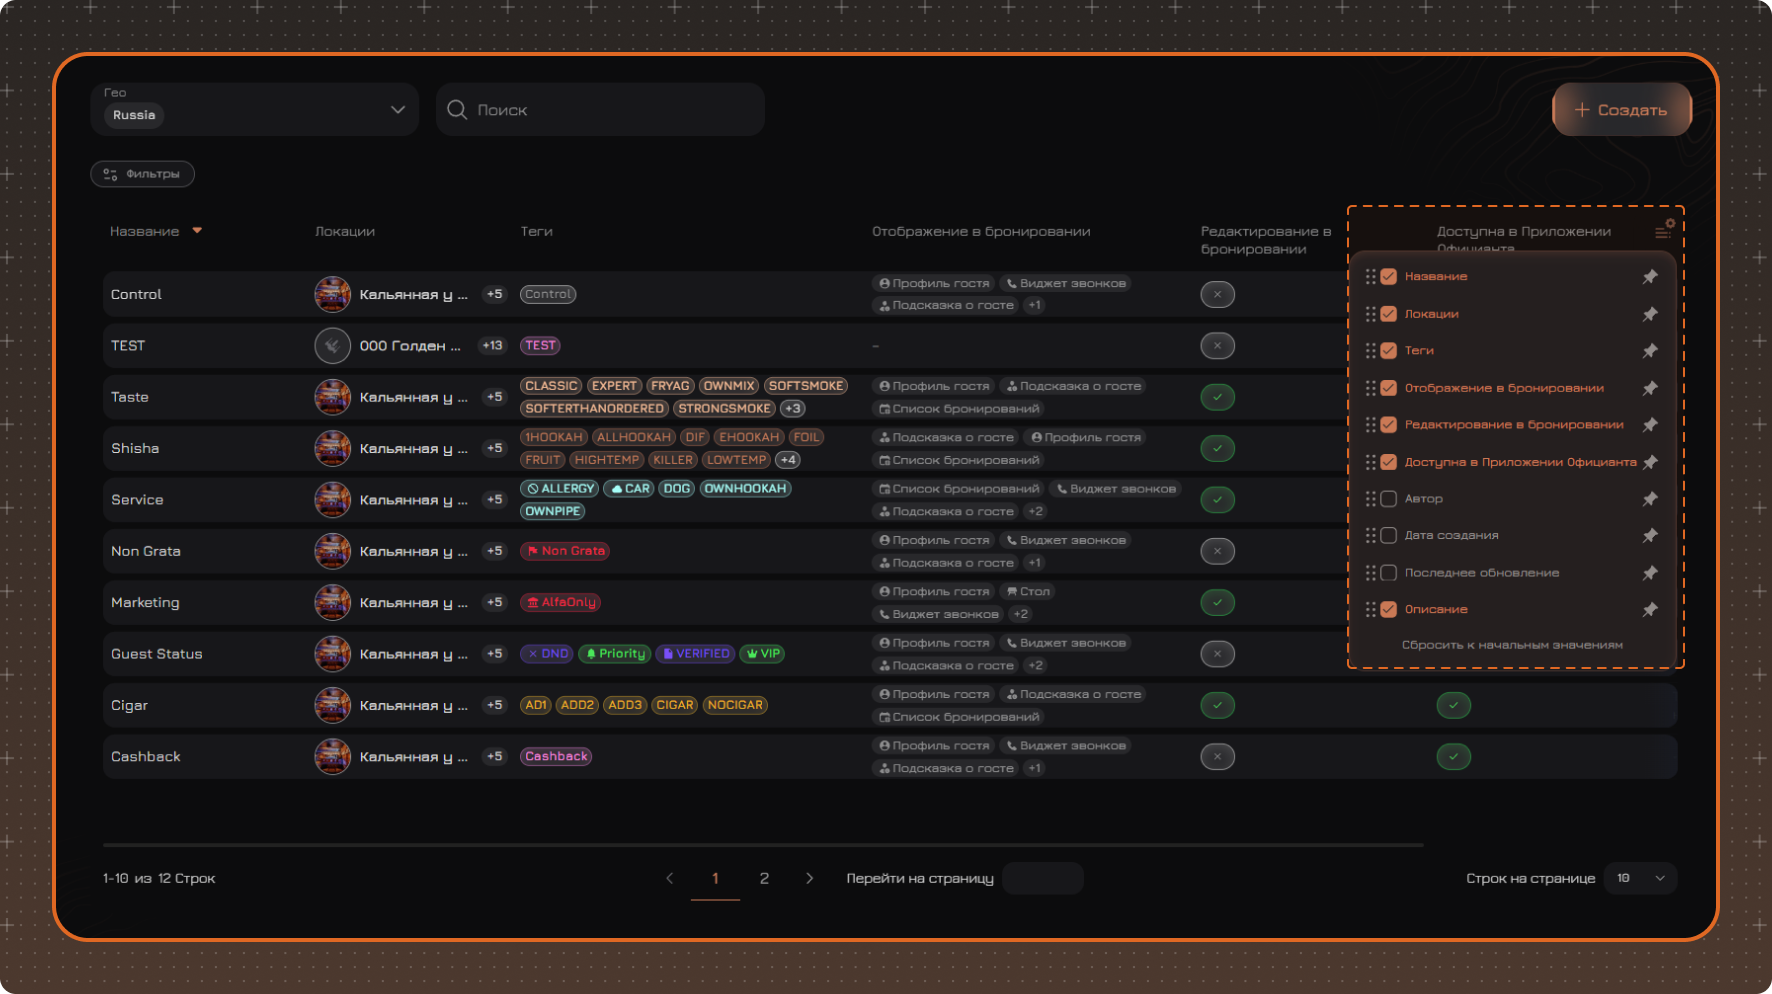
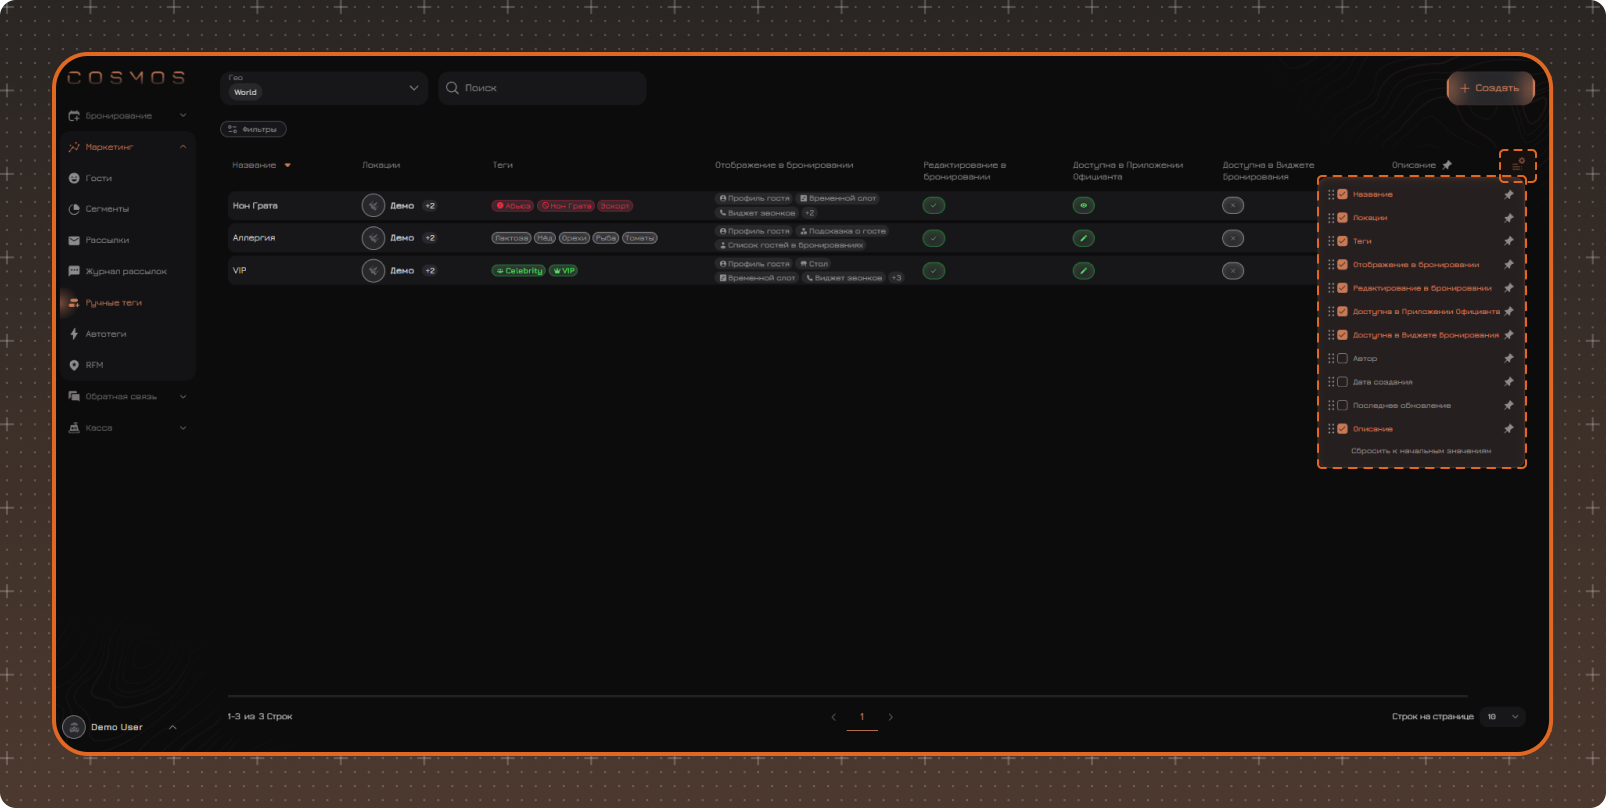
manual tags edit 17avg

diff --git a/content/ru/marketing/manual-tags/tags-manage.md b/content/ru/marketing/manual-tags/tags-manage.md
@@ -1,0 +1,93 @@
+---
+title: Создание и редактирование ручных тегов
+description: 
+summary: 
+order: 2
+updatedAt: 2026-08-17
+---
+[[delimiter rows=1]]
+
+
+
+## Создание группы ручных тегов
+
+
+Чтобы создать новую группу ручных тегов:
+
+1. Нажмите **Создать группу тегов**.
+2. Заполните параметры группы.
+3. Нажмите **Сохранить**.
+
+![создание группы ручных тегов](/ru/images/manual-tags/tags-group-create.png)
+
+[[delimiter rows=1]]
+
+**1. Название**
+
+**2. Локации** 
+
+**3. Описание**
+
+**4. Редактирование в бронировании** - позволяет назначать и удалять теги этой группы непосредственно в системе бронирования.
+
+**5. Доступна в Приложении официанта** - позволяет использовать теги этой группы в приложении Waiter.
+
+   - **Присвоение гостю** — позволяет назначать и удалять теги этой группы в приложении Waiter. Параметр становится доступен только при включенной настройке **«Доступна в Приложении официанта»**.
+
+**7. Доступна в виджете Бронирования** - позволяет отображать теги группы в виджете Бронирования. При включении настройки можно указать публичное название группы, которое будет отображаться в виджете.
+
+**8. Отображение в бронировании** - позволяет выбрать, где будут отображаться теги группы: в профиле гостя, временном слоте, на столе, в виджете звонков, в подсказке о госте и в списке бронирований.
+
+
+
+
+
+
+## Создание тега
+
+Чтобы добавить тег в группу:
+
+1. Нажмите **Добавить тег**.
+2. Заполните параметры тега.
+3. Нажмите **Добавить**.
+4. Нажмите **Сохранить**, чтобы изменения вошли в силу.
+
+![создание тега](/ru/images/manual-tags/tag-create.png)
+
+[[delimiter rows=1]]
+
+**1. Название** 
+
+**2. Сокращенное название**  
+
+**3. Цвет**  
+
+**4. Иконка**
+
+**5. Текст подсказки** 
+
+
+## Редактирование 
+
+Чтобы изменить параметры группы или входящих в нее ручных тегов, откройте нужную группу, внесите изменения и нажмите **Сохранить**.
+
+## Удаление группы ручных тегов
+
+Чтобы удалить группу ручных тегов, откройте меню действий в списке групп или на странице группы и выберите **Удалить**.
+
+Подтвердите удаление в открывшемся окне.
+
+При удалении группы удаляются все входящие в нее теги, а также они удаляются у всех гостей, которым были назначены.
+
+## Удаление ручного тега
+
+Чтобы удалить ручной тег, откройте группу тегов, удалите нужный тег из списка и нажмите **Сохранить**.
+
+После удаления тег будет удален у всех гостей, которым он был назначен.
+
+
+
+
+[[delimiter rows=5]]
+
+---
